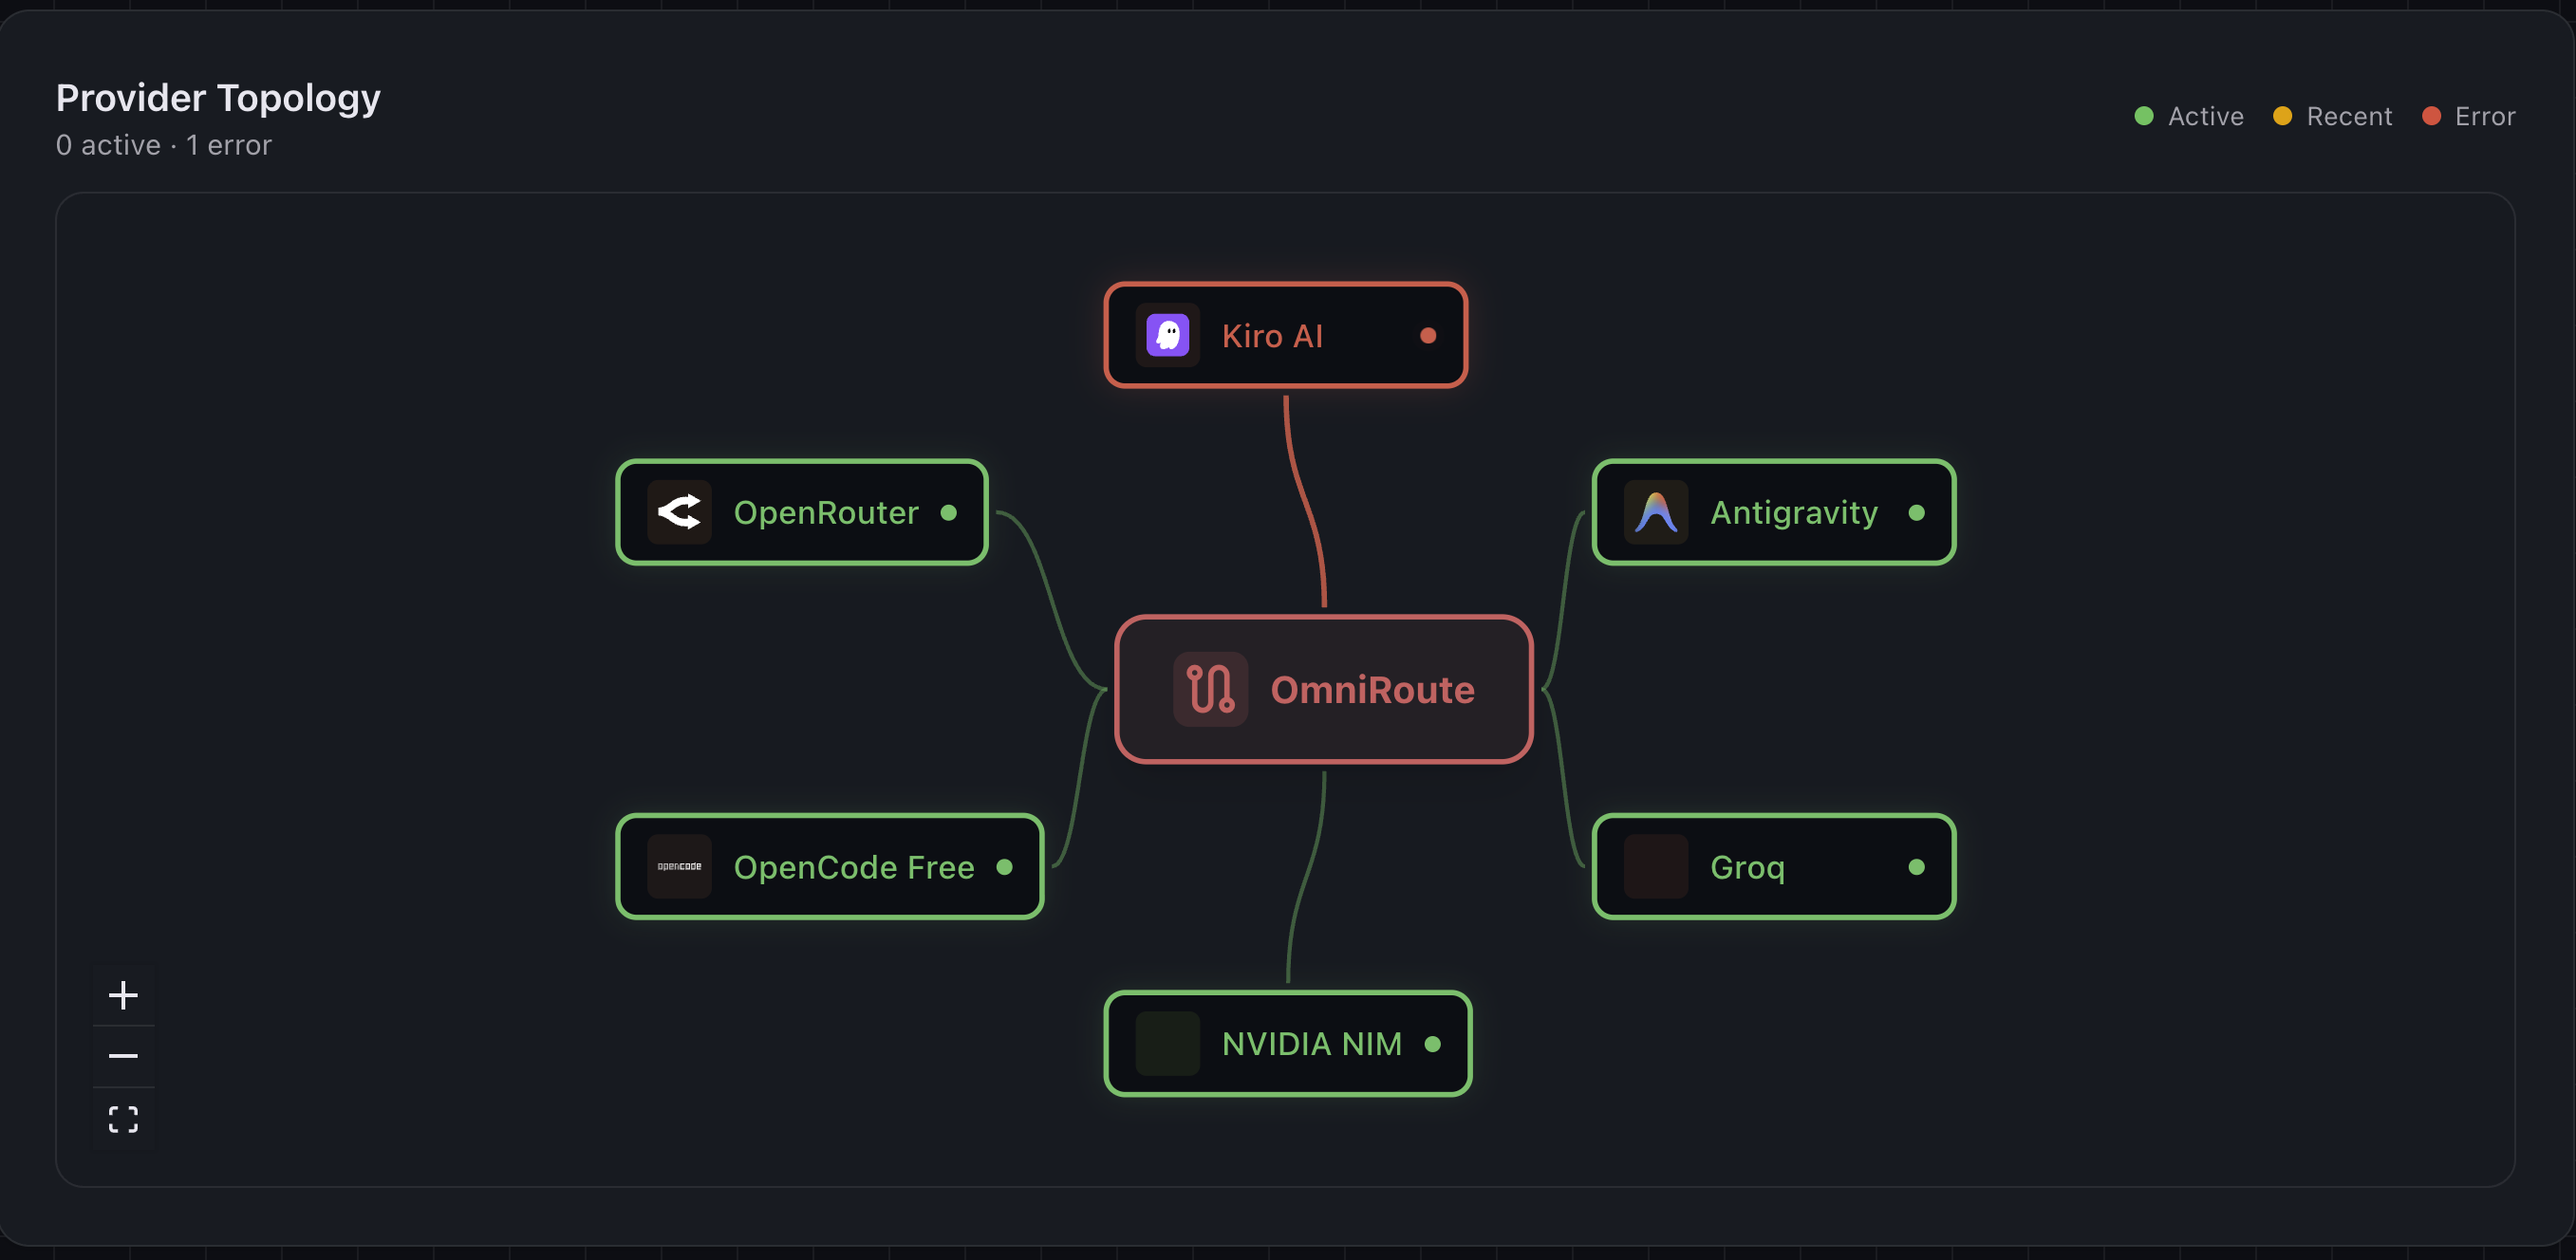
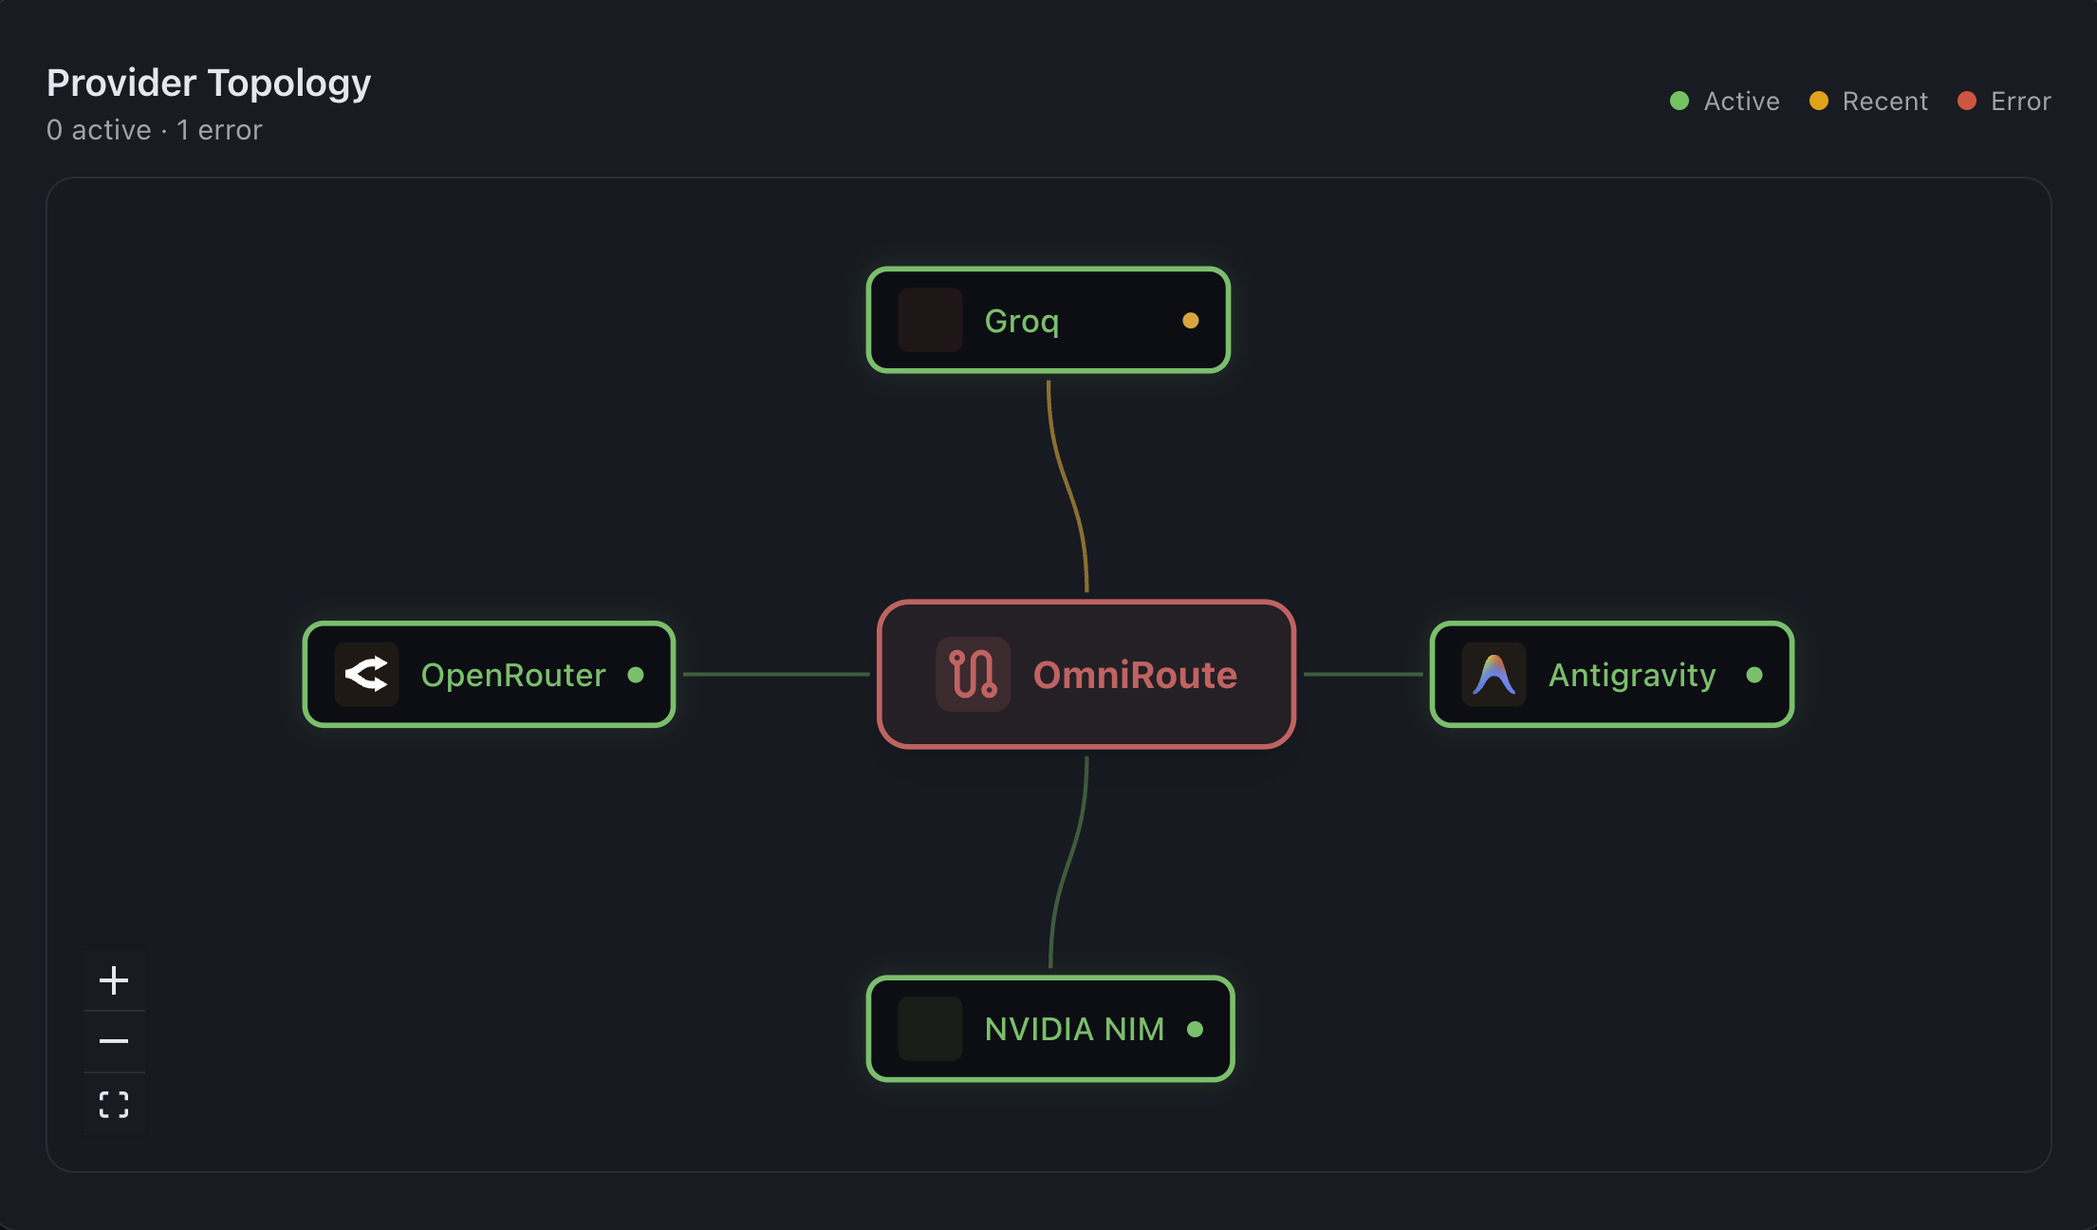
docs: refresh recommended providers and topology screenshot

diff --git a/README.md b/README.md
@@ -256,11 +256,13 @@ Source-install task data defaults to `.cheapos/` beside the launcher. Packaged m
 
 ### Recommended starter setup
 
-Use **OmniRoute as your remote gateway**, with several connected providers so cheapoS has alternatives when a route is unavailable or cooling down. The setup below includes **OpenRouter, OpenCode Free, Groq, NVIDIA NIM, Antigravity, and Kiro AI**. Connect the providers you have access to; you do not need every provider pictured to get started. Aim for two available, tool-capable models for the worker and independent reviewer, preferably across different providers.
+Use **OmniRoute as your remote gateway**, with several connected providers so cheapoS has alternatives when a route is unavailable or cooling down. The setup below shows **OpenRouter, Groq, NVIDIA NIM, and Antigravity**. Connect providers whose access terms support your use through a gateway; you do not need every provider pictured to get started. Aim for two available, tool-capable models for the worker and independent reviewer, preferably across different providers.
 
-![OmniRoute provider topology connecting OpenRouter, OpenCode Free, Groq, NVIDIA NIM, Antigravity, and Kiro AI.](docs/assets/recommended-starter-setup.png)
+**OpenCode Free is no longer part of this recommended setup:** its free tier is restricted to OpenCode. [Provider access notes →](docs/USER_GUIDE.md#provider-access-restrictions)
 
-*A live OmniRoute session. Kiro AI had reached its quota when this was captured—one reason to connect several providers.*
+![OmniRoute provider topology connecting OpenRouter, Groq, NVIDIA NIM, and Antigravity.](docs/assets/recommended-starter-setup.png)
+
+*An OmniRoute session showing four configured providers. Status indicators reflect the moment this screenshot was captured; availability and quota vary by provider and account.*
 
 [Connect OmniRoute and choose your models →](docs/USER_GUIDE.md#omniroute-companion)
 

diff --git a/docs/USER_GUIDE.md b/docs/USER_GUIDE.md
@@ -135,6 +135,14 @@ OmniRoute also supports Ollama, allowing a local worker and a remote reviewer th
 
 Under **Models → Startup & connection settings**, the status distinguishes saved, session-only, and environment keys. Uncheck **Remember** and save to remove the stored key while keeping it for the current session; **Forget client key** removes both the stored key and the in-memory value. Changing the gateway URL clears the old key and its included-model authorization. A locked credential store shows a recovery message: unlock it and refresh, or supply a launch-environment key. A launch-environment key takes precedence on startup and is never automatically copied into the credential store; forgetting a key does not modify your launch environment.
 
+### Provider access restrictions
+
+OpenCode's free tier is restricted to OpenCode and is not recommended as a free
+route for cheapoS through OmniRoute. This refusal was observed in cheapoS and is
+also documented in an [upstream access report](https://github.com/anomalyco/opencode/issues/49580).
+Choose a provider that permits your intended API or gateway use. A model listed
+in a gateway catalog does not grant access or override the provider's terms.
+
 ### Direct connections
 
 Only **local Ollama** is available directly: `http://127.0.0.1:11434/v1`, with an installed model supporting tool calling. Local model prices can be zero. cheapoS verifies the installed model before task inference, including Manual mode; Ollama cloud routes must use OmniRoute instead.
